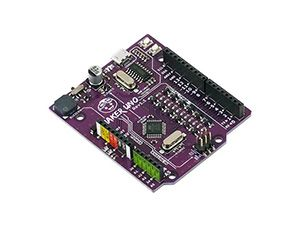
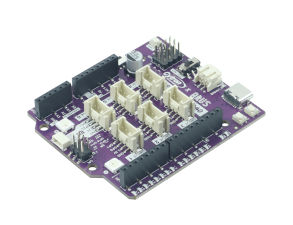
Update _board file and replace board images

diff --git a/_board/cytron_maker_uno_rp2040.md b/_board/cytron_maker_uno_rp2040.md
@@ -5,25 +5,62 @@ title: "Maker Uno RP2040 Download"
 name: "Maker Uno RP2040"
 manufacturer: "Cytron Technologies"
 board_url:
- - "https://www.cytron.io/c-maker-series/p-maker-uno-simplifying-arduino-for-education"
+ - "https://my.cytron.io/p-maker-uno-rp2040"
 board_image: "cytron_maker_uno_rp2040.jpg"
 date_added: 2023-12-14
 family: raspberrypi
 features:
+  - Battery Charging
   - Arduino Shield Compatible
   - Speaker
 ---
 
-Students/Makers can skip the hassle of constructing the basic electronic circuit which is boring and time-consuming. Although it is equally important to learn about basic electronics, it can always come later after they have experienced how easy it is to create an awesome project. Start with fun and excitement. Start coding right away and see your board lights up and plays the melody with the press of a button.
+Ever wanted to explore Python for microcontrollers with Uno but faced compatibility issues with MicroPython or CircuitPython due to the limited RAM and flash space of the MCU IC? Have you ever wished for a board that not only supports Python programming but also retains the user-friendly nature of the Uno form factor?
+ 
+Look no further - 
 
-For experienced makers, this is also useful to quickly test your code without having to connect any other devices.
+Introducing the Maker Uno RP2040, a revolutionary development board that combines the beloved Uno form factor with the powerful dual-core Arm Cortex-M0+ processor chip, the Raspberry Pi® RP2040. Thanks to its large flash memory, programming with Circuitpython or Micropython is made possible. Packed with Maker Series goodness and enhanced features, this board is designed to elevate both your innovative projects and educational pursuits.
 
-With the conventional Arduino boards, makers also face another common problem - difficulty in troubleshooting their circuit. This is because when it doesn't work, they do not know whether the problem is due to wire connection or coding.
+Why RP2040? - The RP2040 is a dual core Arm Cortex M0+ powerful chip that offers exceptional performance and flexibility. With a clock speed of up to 133MHz, built-in 264KB of RAM, and support for up to 16MB of external flash memory, this board enables complex operation, making it well-suited for a variety of applications. Not only that, it comes two I2C controllers, two SPI controllers, and two UARTs, 16 PWM channels that you can use across the GPIOs. Additionally, it supports a wide range of development environments, including CircuitPython, MicroPython, and Arduino IDE, making it accessible to beginners and advanced users alike.
 
-With Maker UNO, the problem is solved! Not only do the onboard LEDs work as outputs, they can also act as indicators, clearly showing what's happening on that pin. When the pin is used as input, you can clearly see whether the signal is received by just looking at changes on the LEDs.
+With the Maker Uno RP2040, we bring the power of the RP2040 chip into the familiar Uno form factor. We maintain the user-friendly nature and plug-and-play features that have contributed to the popularity of the Arduino platform, all while utilizing the advanced capabilities of the RP2040 to boost its performance. Not only that, we also inject this board with Maker series features together with other useful features to enhance learning experience and spark your creativity.
 
-One of the brilliant features of the official Arduino Uno is the label printed on its pin headers. It saves a lot of time when connecting the I/O pins to the external circuit. So, a set of these label stickers for pin headers is included in each of the Maker UNO! (Please note that you need to peel off the stickers and stick them on your Maker UNO by yourself)
+Experience the handy Maker series goodness that comes with the Maker Uno RP2040, aimed to simplify digital making. Equipped with lots of onboard LEDs for troubleshooting and visual effects, as well as ready-to-use onboard programmable piezo buzzer and push buttons for kickstarting your project and learning process.
+
+Skip the hassle of complicated wiring and intricate setup with Maker Uno RP2040’s dedicated Grove and Maker ports! In addition to the ever-trusted female Uno Header, we provide Grove and Maker ports for quick connections without the need for soldering and offering foolproof protection against misconnections. Wait, you don't have any Grove module sensors? Don't worry! We also provide 4x female-to-Grove cables to ensure that you can connect your generic module to the Grove port effortlessly.
+
+Effortlessly connect up to 4 servo motors simultaneously with our board's dedicated servo port! Quickly integrate your servo motors without the hassle of using extra messy jumpers and worrying about power supply. Please note that the voltage for the servos depends on the power source connected at the time.
+
+The board offers two power supply options - USB(5V) via the USB-C socket or with a single-cell LiPo/Li-Ion battery via the LiPo connector. This dual powering method also comes with automatic power selection, offering flexibility for various applications. Whether it's a portable project or stationary project, this board is the go-to choice! Not only that, there is also a built-in charging circuit with overcharge and over-discharge protection circuit to charge the LiPo battery, providing a convenient and all-in-one solution for power management in your projects.
+
+Elevate your coding skills with Maker Uno RP2040 as it supports Arduino IDE, CircuitPython, and MicroPython. Whether you're a seasoned developer or just starting, this versatile microcontroller invites you to explore, learn, and innovate with ease. 
+
+## Technical details
+
+- Arduino/Maker Uno form factor
+- Powered by Raspberry Pi RP2040
+ - Dual-core Arm Cortex-M0+ processor
+ - 264 KB internal RAM
+ - 2MB Flash memory
+- Versatile power circuit
+ -  USB 5 V or LiPo/Li-ion (1-cell) with automatic power selection
+  - Built-in 1-cell LiPo/Li-Ion charger (over-charged & over-discharged protection)
+  - Power on/off switch
+- 6x Grove Ports (Digital I/O, PWM Output, UART, I2C, Analog Input)
+- 1x Maker Ports, compatible with Qwiic, STEMMA QT and Grove (via conversion cable)
+- 4x Servo Ports
+- 16x Status indicator LEDs for GPIOs
+- 1x Piezo buzzer with mute switch
+- 1x User Programmable Push button
+- 1x Reset Button
+- 1x Boot Button
+- 2x RGB LEDs (WS2812)
+- Support Arduino IDE, CircuitPython, Micropython
+
+## Resources
+
+- [Maker Uno RP2040 Datasheet](https://docs.google.com/document/d/16RTRPaV0Xaqg3xKwM89iMkXrDB8T_pBjCKYHOadv_Z4/edit)
 
 ## Purchase
 
-* [Cytron](https://www.cytron.io/c-maker-series/p-maker-uno-simplifying-arduino-for-education)
+* [Cytron](https://my.cytron.io/p-maker-uno-rp2040)
